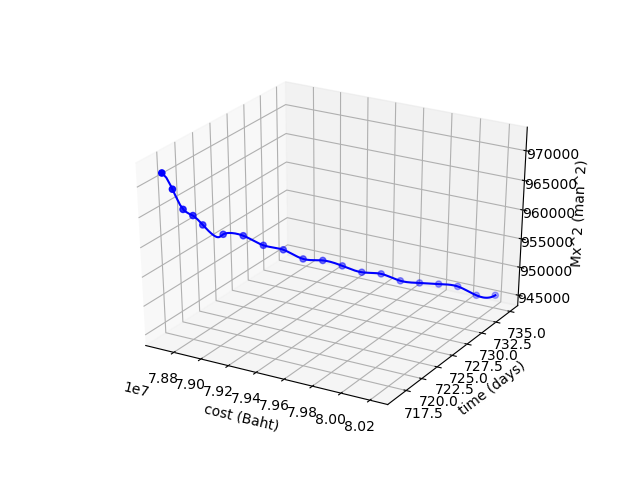
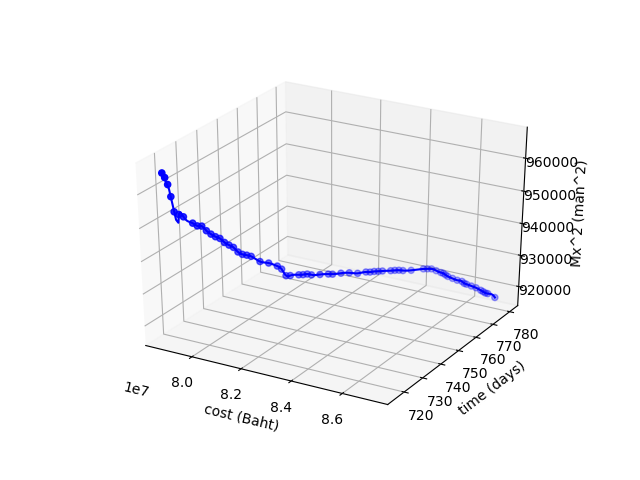
complete 500 gen normal and redesign fitnessbased

Changed region(s): [[0.2188, 0.2188, 0.9062, 0.9062], [0.625, 0.6875, 0.8438, 0.875]]

diff --git a/Scheduling_Optimization_new.py b/Scheduling_Optimization_new.py
@@ -12,7 +12,8 @@ maximum_generation = 100
 minimum_population_size = 400
 maximum_population_size = 500
 print_interval = 10
-fitness_based = False
+fitness_based = True
+epsilon = 1
 
 Start_Date = pd.to_datetime('October 17, 2018 5:00 PM', format='%B %d, %Y %I:%M %p')
 Finish_Date = pd.to_datetime('October 5, 2020 5:00 PM', format='%B %d, %Y %I:%M %p')
@@ -216,12 +217,15 @@ def breed_by_fitnessbased_crossover(population, fitness_1, fitness_2):
     """
     parent_1 = population[fitness_1]
     parent_2 = population[fitness_2]
+    length = len(population)
 
     #Fitness based crossover
     center = (parent_1 + parent_2)/2
     diff = abs(parent_2 - parent_1)/2
-    child_1 = center - ((fitness_1+1)/(fitness_1+fitness_2+1))*diff
-    child_2 = center + ((fitness_2+1)/(fitness_1+fitness_2+1))*diff
+    weight_1 = 1 - ((fitness_1+epsilon)/(fitness_1+fitness_2+epsilon))
+    weight_2 = 1 - ((fitness_2+epsilon)/(fitness_1+fitness_2+epsilon))
+    child_1 = center - weight_1*diff
+    child_2 = center + weight_2*diff
     child_1 = np.rint(child_1)
     child_2 = np.rint(child_2)
     
